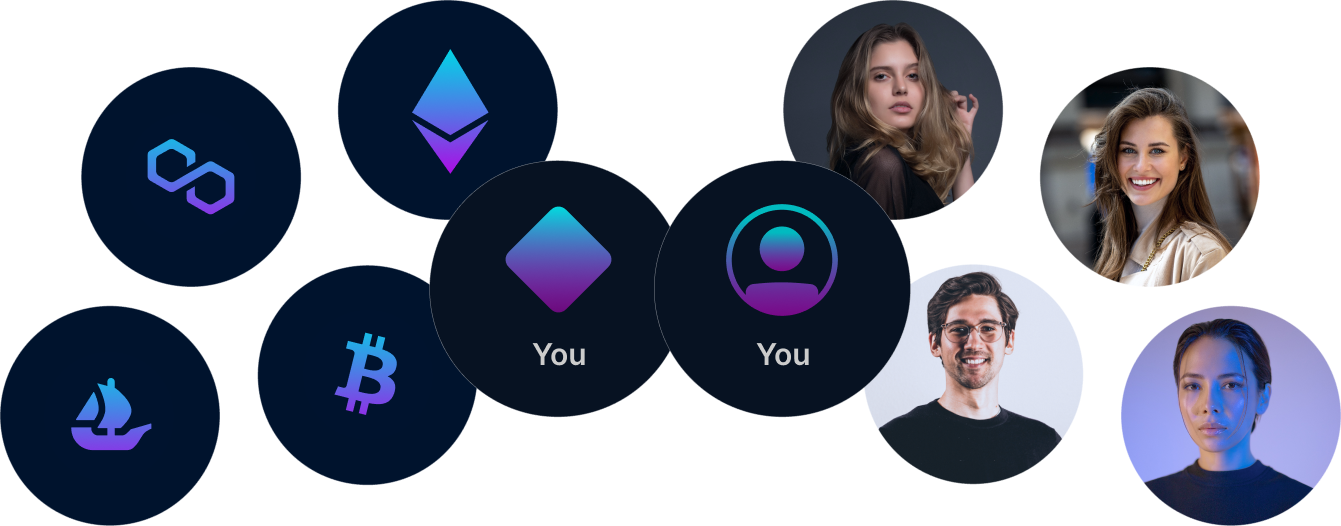
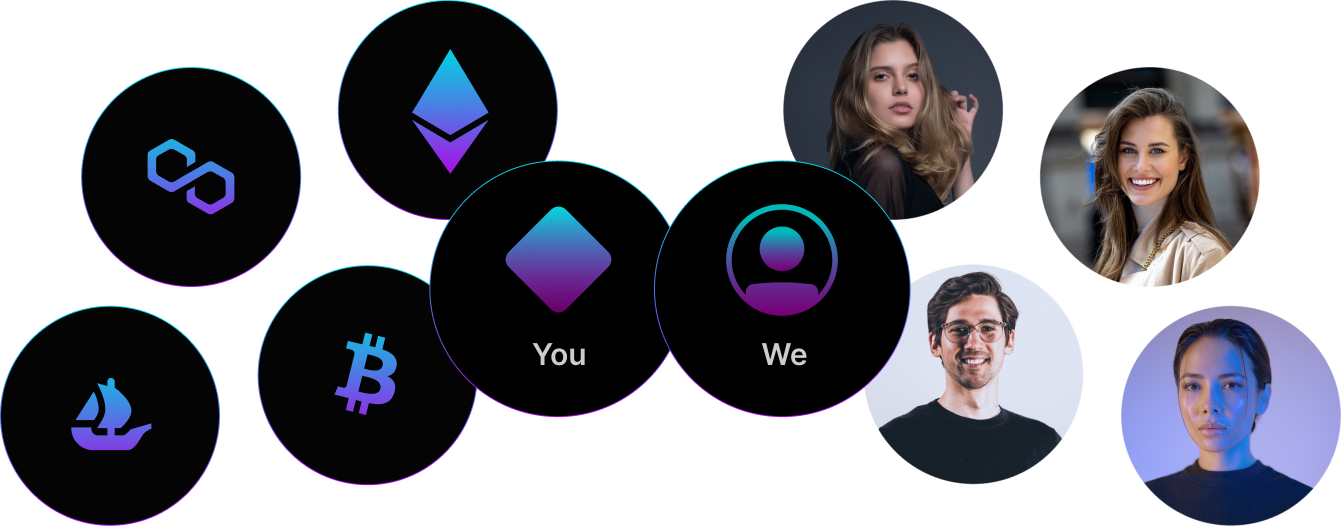
Chnages preloader and content market place image

diff --git a/style.css b/style.css
@@ -62,35 +62,14 @@ canvas{
   bottom: 0;
   z-index: 9999;
   overflow: hidden;
-  background: #141c3a;
+  background: #000;
   display: flex;
 }
 
-.image-container {
-  position: relative;
-  display: inline-block;
-  margin: auto;
-}
-
-.image-container img {
+#preloader object {
   margin: auto;
   max-width: 100vw;
   max-height: 100vh;
-}
-
-.text-overlay {
-  display: none;
-  position: absolute;
-  bottom: 12%;
-  left: 0;
-  width: 100%;
-  text-align: center;
-}
-
-.text {
-  color: white;
-  font-size: 2rem;
-  margin: 0;
 }
 /*--------------------------------------------------------------
 # Preloader styles ends here

diff --git a/index.html b/index.html
@@ -187,12 +187,9 @@
   </section>
 
   <div id="preloader">
-    <div class="image-container">
-      <img src="./static/rocket.gif" alt="preloader" id="preloader_gif" onload="document.getElementById('preloader_text').style.display = 'block'">
-      <div class="text-overlay" id="preloader_text">
-        <p class="text">To the moon...</p>
-      </div>
-    </div>
+    <object type="image/svg+xml" data="./static/preloader.svg" alt="preloader_obj" img width="100%">
+      <img src="./static/preloader.svg" alt="preloader_img"/>
+    </object>
   </div>
 
 
